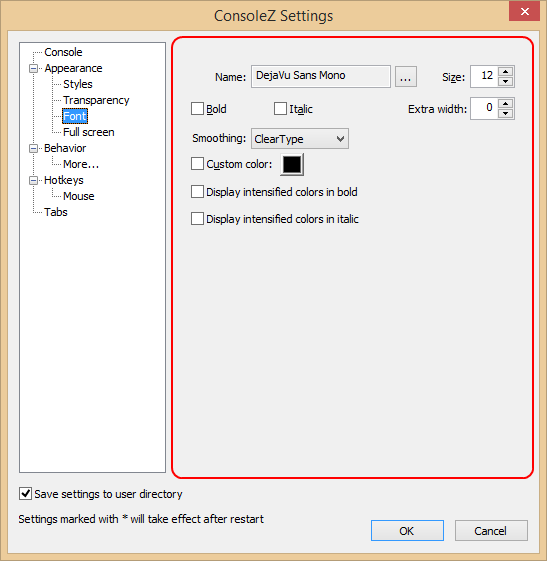
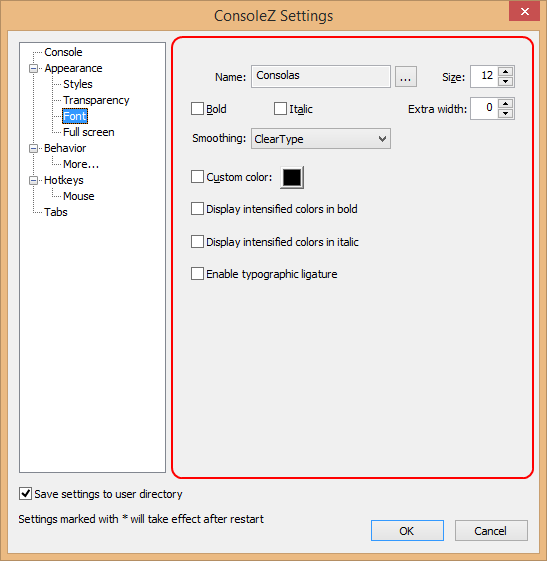
update documentation

diff --git a/help/html/settings_appearance_font.html b/help/html/settings_appearance_font.html
@@ -114,6 +114,17 @@
 	</p>
 	<br />
 
+	<p class="block-row-name">Enable typographic ligature</p>
+	<p class="block-row-description">
+		If checked, text rendering will use typographic ligatures defined in the selected font.<br />
+		Here is a monospaced font with programming ligatures: <a href="https://github.com/tonsky/FiraCode">Fira Code</a>.<br />
+		Fira Code (with ligatures):<br />
+		<img src="../images/all_ligatures.png"/><br/>
+		Compare to Fira Mono (without ligatures):<br />
+		<img src="../images/no_ligatures.png"/><br/>
+	</p>
+	<br />
+
 </body>
 
 </html>

diff --git a/help/html/settings_appearance_transparency.html b/help/html/settings_appearance_transparency.html
@@ -14,9 +14,11 @@
 	<img src="../images/settings_appearance_transparency.png" />
 	</p>
 
-	<p class="block-row-name">None<br />Alpha<br />Glass<br />Color key</p>
+	<p class="block-row-name">None<br />Alpha and color key<br />Alpha<br />Glass<br />Color key</p>
 	<p class="block-row-description">
 		Specifies transparency type.
+		<br />
+		Alpha transparency and color key transparency can be used together.
 		<br />
 		Alpha transparency is the 'real' transparency.
 		<br />
